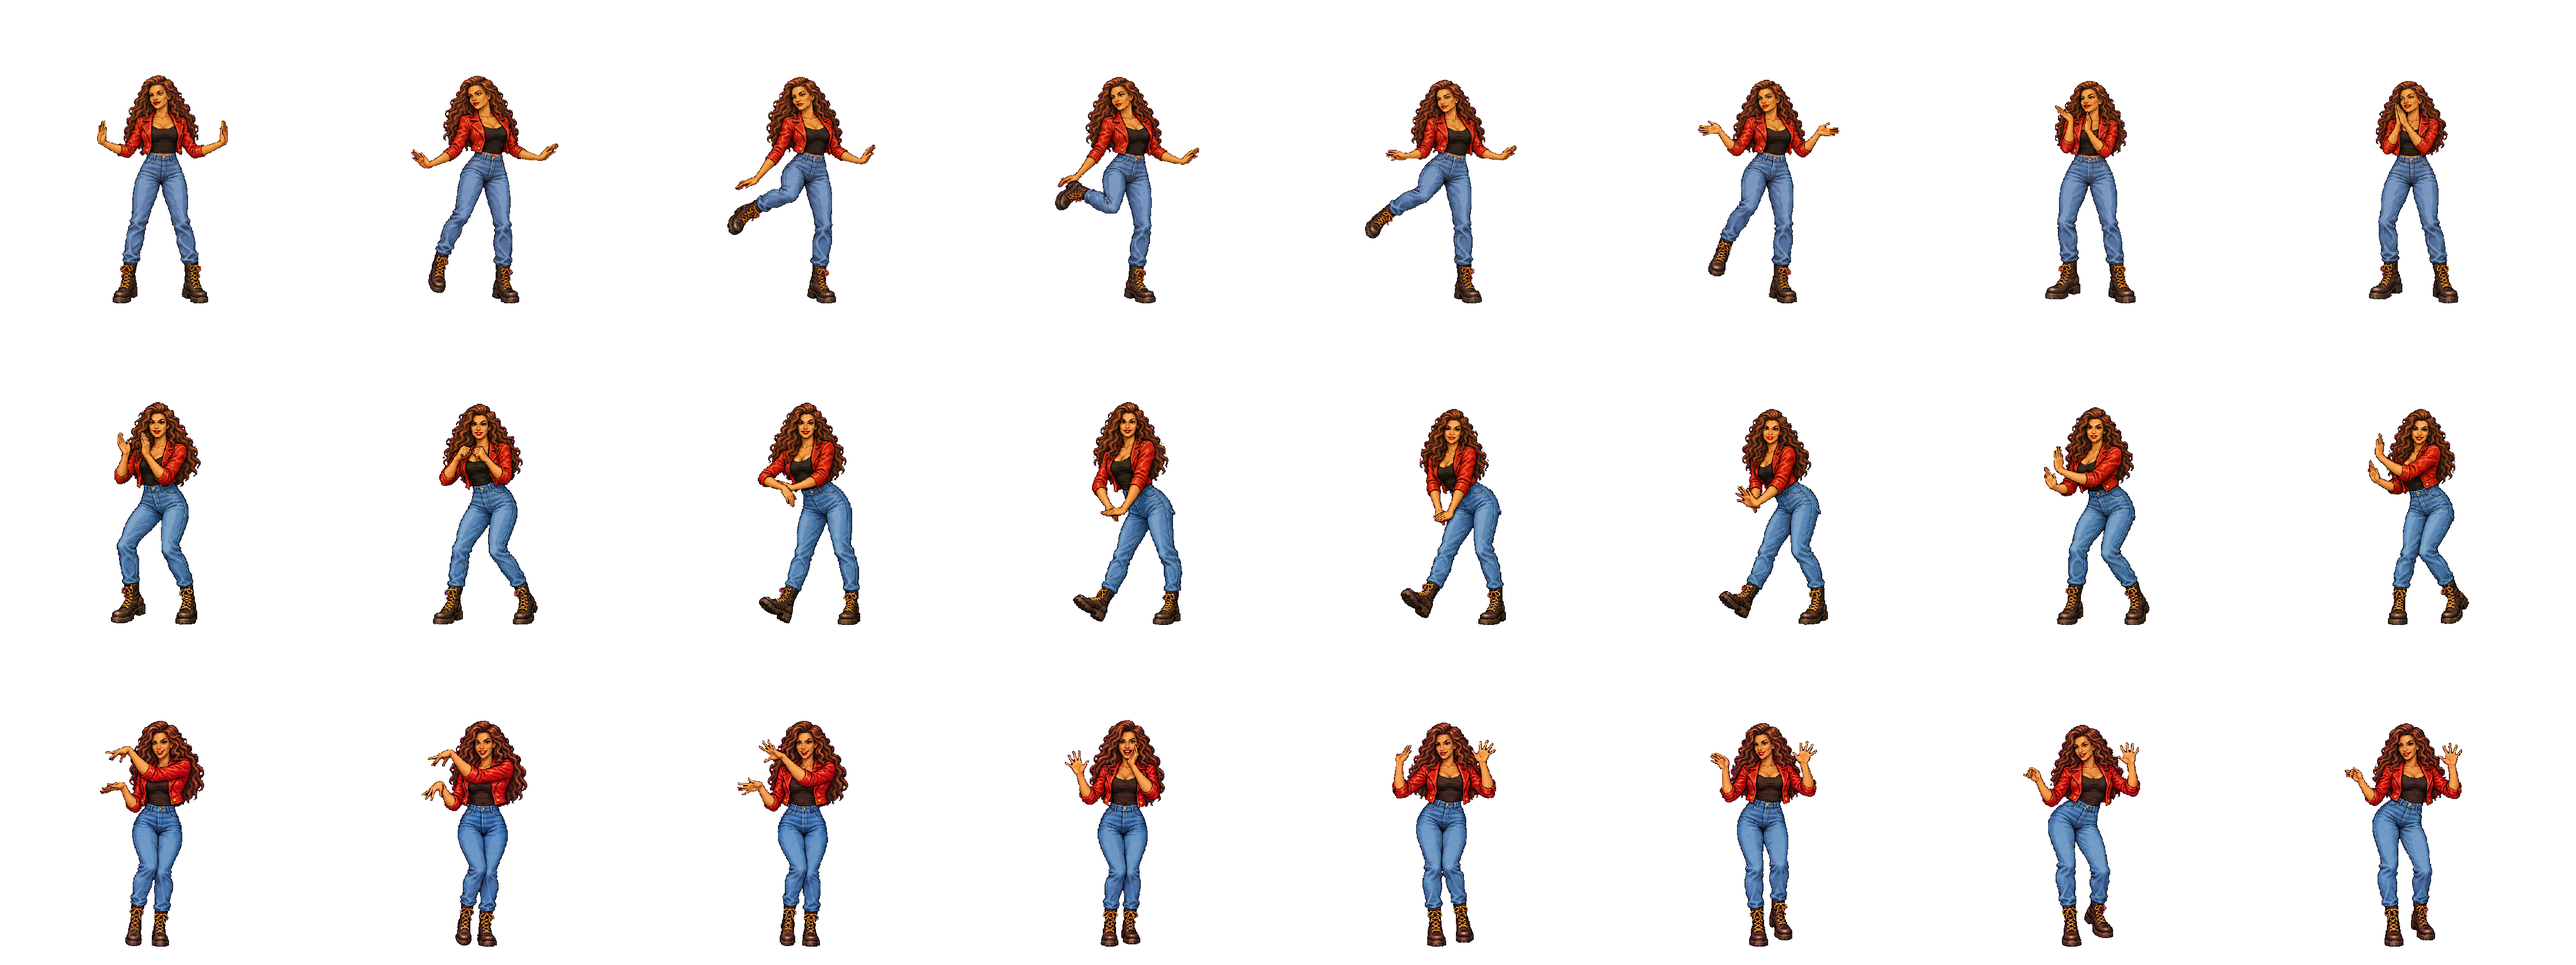
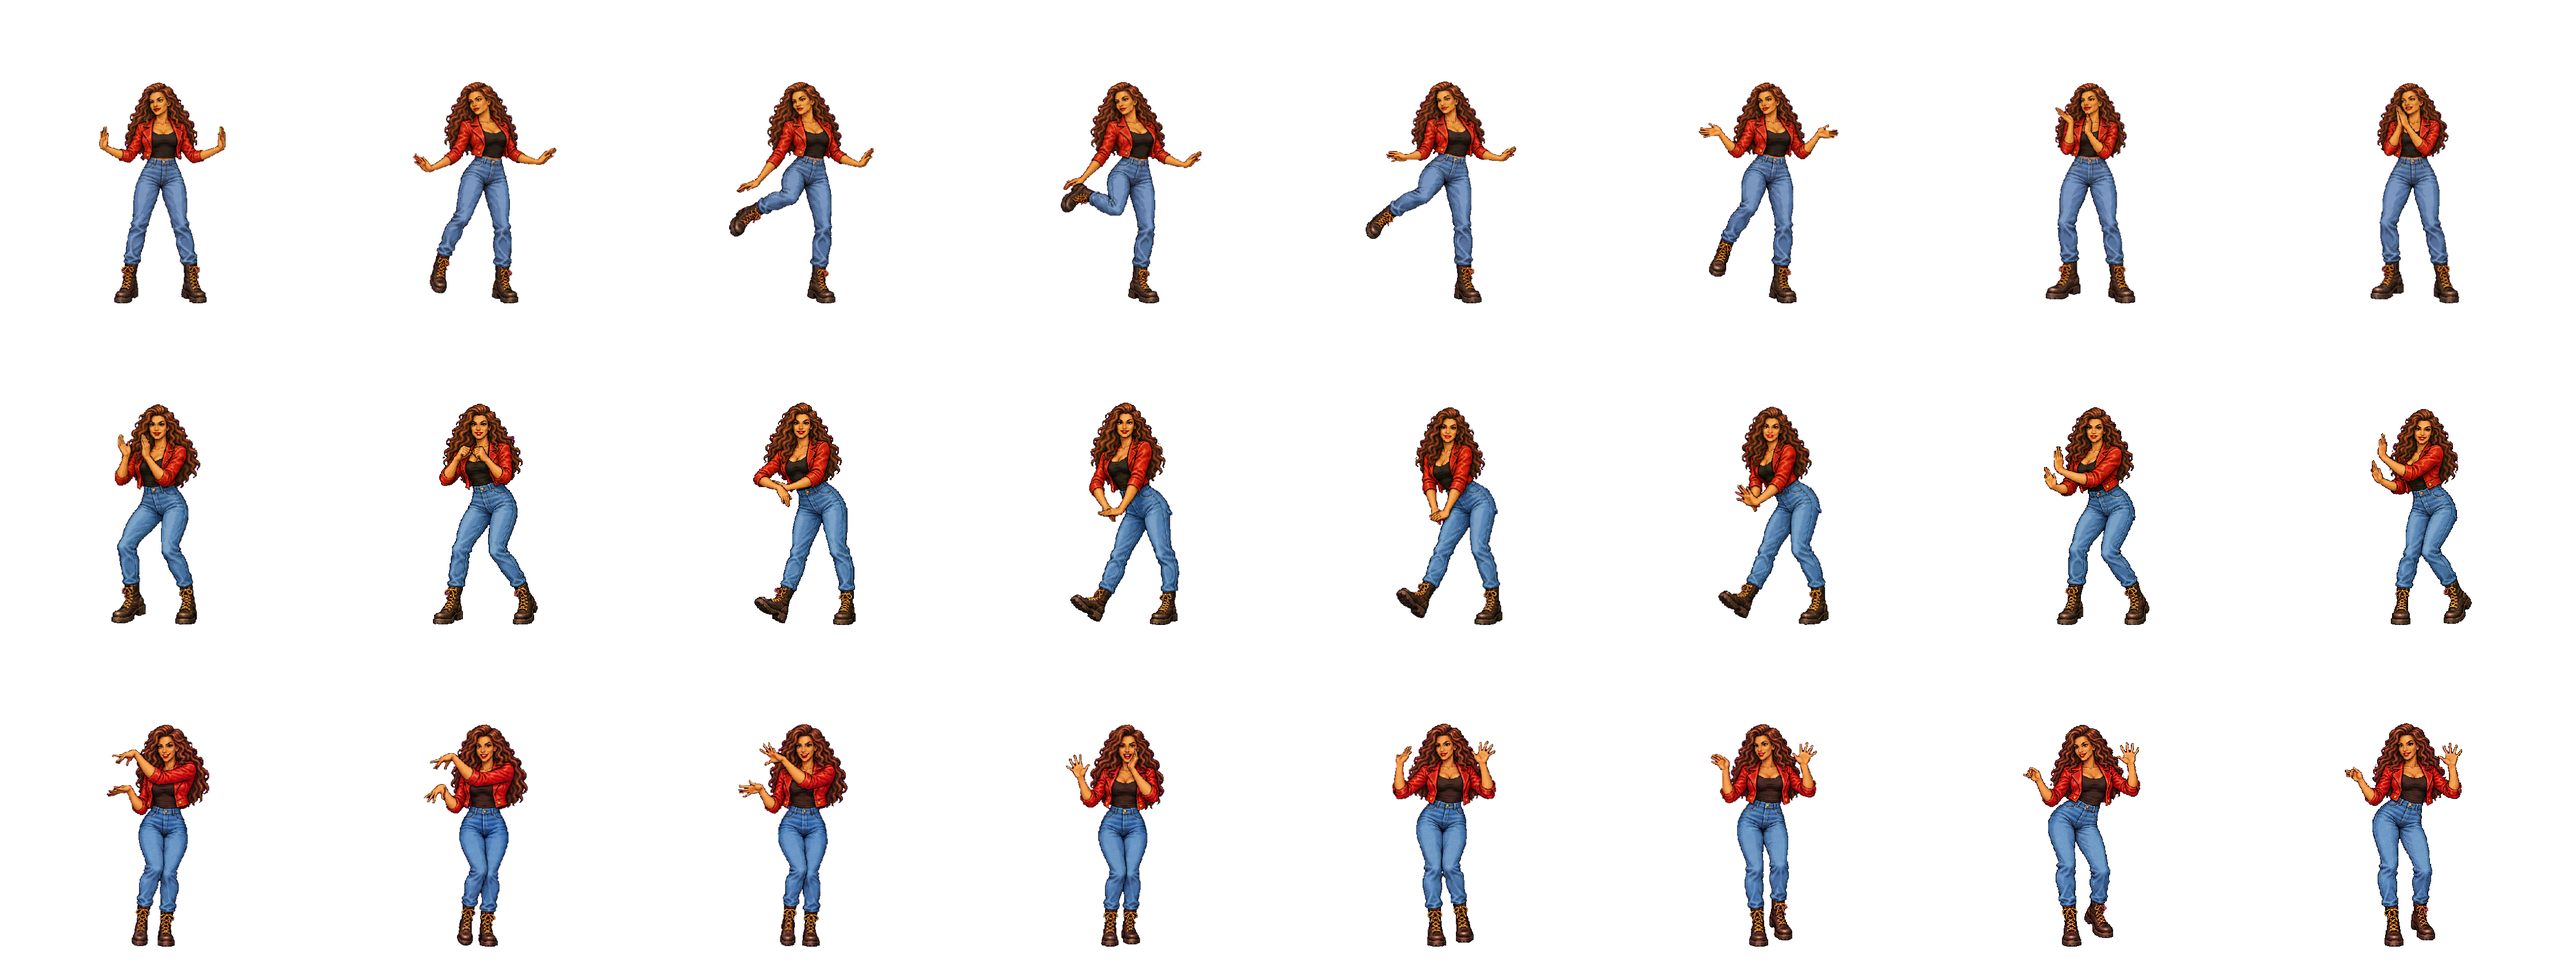
feat: sing in three-quarter view, victory and ko back on
Sing was planned in the left view, which is a strict side profile. In
practice those renders drifted toward three-quarter anyway, and the key
art — the only angle reference the pipeline has — is itself a front-left
three-quarter view. Planning sing as "3/4" makes the plan agree with both.

Also switches victory and ko back on, pins hype-man's dance to the
cabbage-patch bundle and screamer's to shamrock-variation, and carries a
Belter dance re-render.

Note for whoever rebuilds: write_motion returns an existing bundle
untouched, so the view change does not reach a character whose sing
bundle is already on disk. Every character currently has one, and all of
them say "left". They have to be deleted for this to take effect.

diff --git a/cag/sets.py b/cag/sets.py
@@ -30,7 +30,7 @@ class SetPlan:
 
 SET_PLANS = {
     "dance": SetPlan(16, 6, "loop", "front"),
-    "sing": SetPlan(16, 8, "loop", "left"),
+    "sing": SetPlan(16, 8, "loop", "3/4"),
     "flinch": SetPlan(16, 8, "oneshot", "left"),
     "guard": SetPlan(16, 8, "oneshot", "left", holds_final_frame=True),
     "entrance": SetPlan(16, 8, "oneshot", "left"),
